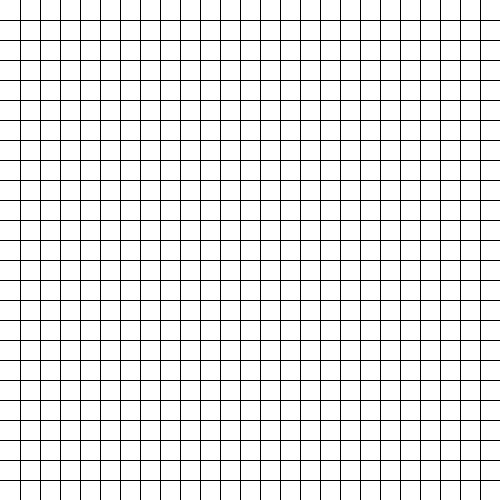
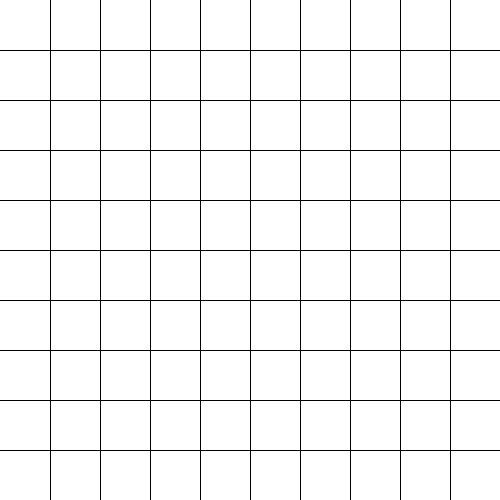
Расчет победителя.

diff --git a/main.py b/main.py
@@ -18,11 +18,14 @@ PINK = (230, 50, 230)
 
 
 class Game:
-    """
-    Class Game responsible for drawing the field.
-    """
 
     def __init__(self, width):
+        """
+        Class Game responsible for drawing the field.
+
+        Args:
+            width: the number of cells on the playing field.
+        """
         pygame.init()
         self.window = pygame.display.set_mode((1280, 720))
         self.window.fill(BLACK)
@@ -39,22 +42,31 @@ class Game:
         field_pos = pygame.Rect(20, 20, 500, 500)
         self.fieldImageSave = self.window.subsurface(field_pos)
         pygame.image.save(self.fieldImageSave, "our_field.jpg")
-        self.field_our = FieldImage(self.fieldImageSave)
+        self.field_our = FieldImage()
         self.rect_dr = pygame.sprite.Group()
         self.rect_dr.add(self.field_our)
         self.game_manager = GameField(width, width)
         self.bones = Bones()
         self.turn_num = 1
-        while True:
+        self.summ1 = 0
+        self.summ2 = 0
+        self.failed = 0
+        while self.failed < 2:
             self.turn()
             self.turn_num = 2 if self.turn_num == 1 else 1
+        if self.summ1 > self.summ2:
+            print("First player is winner!")
+        elif self.summ1 < self.summ2:
+            print("Second player is winner!")
+        else:
+            print("DRAW!")
 
     def turn(self):
         """
         Function is responsible for drawing the rectangle.
 
         Returns:
-
+            None
         """
         a, b = self.bones.throw()
         x, y = 0, 0
@@ -62,6 +74,10 @@ class Game:
         positions = [x.getCoords() for x in positions[0]]
         print(positions)
         coordinates = [[((w - x) / 2 + x + 1) * self.size, ((h - y) / 2 + y + 1) * self.size] for x, y, w, h in positions]
+        if coordinates == []:
+            self.failed += 1
+            return
+        self.failed = 0
         sel_positions = -1
         self.rect = Rect_drawing(self.size * a, self.size * b, GREEN) if self.turn_num == 1 else Rect_drawing(self.size * a, self.size * b, PINK)
         self.rect_dr.add(self.rect)
@@ -87,10 +103,16 @@ class Game:
                             self.rect.control(coord_x, coord_y)
                             self.rect.update()
                 elif event.type == pygame.MOUSEBUTTONDOWN:
+                    self.summ1 = 0
+                    self.summ2 = 0
                     if 520 > x > 20 and 20 < y < 520:
                         self.window.fill(BLACK)
                         if pygame.mouse.get_focused():
                             self.game_manager.addSquare(positions[sel_positions][0], positions[sel_positions][1], a, b, self.turn_num)
+                            if self.turn_num == 1:
+                                self.summ1 += a * b
+                            elif self.turn_num == 2:
+                                self.summ2 += a * b
                             return
                 self.rect_dr.update()
                 self.rect_dr.draw(self.window)
@@ -98,11 +120,10 @@ class Game:
 
 
 class FieldImage(pygame.sprite.Sprite):
-    """
-    Class FieldImage creates new sprite of field.
-    """
-
-    def __init__(self, image):
+    def __init__(self):
+        """
+        Class FieldImage creates new sprite of field.
+        """
         pygame.sprite.Sprite.__init__(self)
         self.image = pygame.image.load("our_field.jpg").convert_alpha()
         self.rect = self.image.get_rect()
@@ -110,11 +131,15 @@ class FieldImage(pygame.sprite.Sprite):
 
 
 class Rect_drawing(pygame.sprite.Sprite):
-    """
-    Class Rect_drawing creates new sprite of rect.
-    """
-
     def __init__(self, width, height, color):
+        """
+        Class Rect_drawing creates new sprite of rectangle.
+
+        Args:
+            width: width of the rectangle.
+            height: length of the rectangle.
+            color: color of the rectangle.
+        """
         pygame.sprite.Sprite.__init__(self)
         self.image = pygame.Surface((width, height))
         self.image.fill(color)
@@ -149,4 +174,4 @@ class Rect_drawing(pygame.sprite.Sprite):
         self.rect.center = (self.movex, self.movey)
 
 
-test = Game(25)
+test = Game(10)
